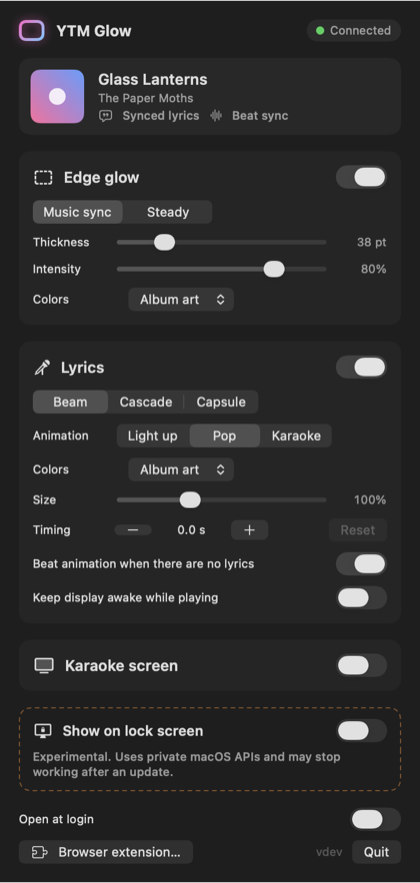
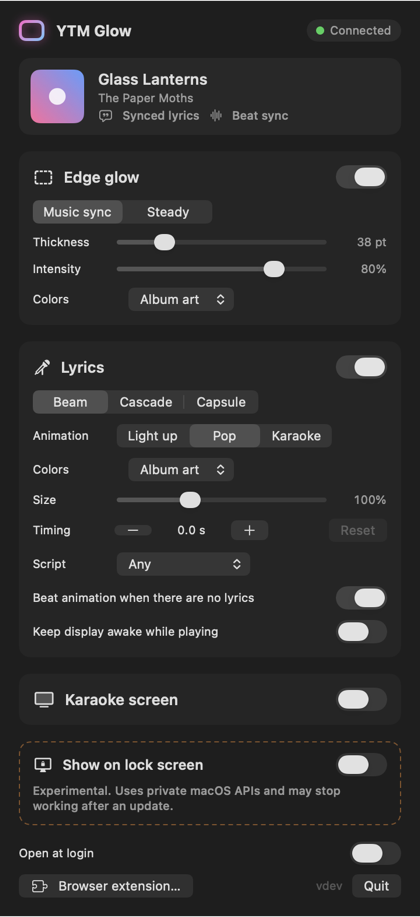
Document Indian-language lyrics support

diff --git a/README.md b/README.md
@@ -19,6 +19,10 @@ into light and lyrics:
   bars in the album colors pulse with the bass, mids and highs where the lyrics
   would be, on the overlay, the karaoke screen (with the album art beating
   along) and the lock-screen card.
+- **Telugu, Hindi, Tamil and other Indian songs** — lyrics in తెలుగు,
+  हिन्दी, தமிழ், ಕನ್ನಡ, മലയാളം and other scripts or romanized, with the right
+  language version picked for film songs released in several languages (see
+  [Indian songs](#indian-songs-telugu-hindi-tamil)).
 - **Karaoke screen** — a full-screen karaoke view on your second display:
   huge lyrics with a word-by-word color sweep, the next two lines underneath,
   a countdown through instrumental breaks, blurred album art that blooms on the
@@ -101,8 +105,9 @@ Click the menu bar icon:
   album-art vs custom colors (two color wells).
 - **Lyrics**: on/off, style (Beam / Cascade / Capsule), animation (Light up /
   Pop / Karaoke), album-art vs custom highlight color, size, a timing offset
-  (+ shows lyrics later), *Beat animation when there are no lyrics* (on by
-  default), and *Keep display awake while playing*.
+  (+ shows lyrics later), *Script* (Any / English letters / తెలుగు / हिन्दी /
+  தமிழ் / …), *Beat animation when there are no lyrics* (on by default), and
+  *Keep display awake while playing*.
 - **Karaoke screen**: on/off and which display (*Automatic* = the first display
   without the menu bar; with only one display it stays off unless you pick
   it). It opens while music plays, stays through pauses up to 30 s, and closes
@@ -163,6 +168,39 @@ music.youtube.com tab                    Chrome extension                     YT
 - **Album colors**: artwork is downloaded only from `https` hosts the player
   uses (`*.googleusercontent.com`, `*.ytimg.com`, `*.ggpht.com`, redirects
   included) and the two colors are extracted locally.
+
+### Indian songs (Telugu, Hindi, Tamil…)
+
+LRCLIB has synced lyrics for most popular Indian film songs. Each song may
+exist in the original script (తెలుగు, हिन्दी, தமிழ்…), romanized in English
+letters, or both. YTM Glow handles the extra wrinkles:
+
+- **Right language version.** Pan-Indian films release the same song in
+  several languages with the same title and singer, and LRCLIB entries are
+  sometimes filed under the wrong album. In testing, every top result for the
+  Telugu "Srivalli" was the Tamil version. The app reads the language from
+  YouTube Music's metadata (e.g. "Pushpa - The Rise (Telugu)"). It checks each
+  candidate's script and never shows another language's version. If needed it
+  searches further ("Srivalli Telugu", "Srivalli Pushpa") to find the right
+  one. If none exists, the beat visualizer shows instead of wrong lyrics.
+- **Lyrics script setting.** Popover → Lyrics → *Script*. Choose తెలుగు (or
+  हिन्दी, தமிழ், ಕನ್ನಡ, മലയാളം…) to prefer lyrics in that script, or *English
+  letters* for romanized lyrics. It falls back to the other writing if that's
+  all there is. Picking your language also helps when YouTube Music's metadata
+  doesn't name the language.
+- **Film-song titles are cleaned up.** `(From "Movie")`, `(Telugu Version)`,
+  "Lyrical", "Full Video Song" and `Song | Movie | Actor` are removed before
+  searching.
+- **Word timing for Indian scripts.** Each akshara (syllable cluster) gets a
+  beat, and a dead consonant (virama / pulli) gets half a beat. Romanized
+  lyrics keep their sung final "e" ("suttukunte").
+
+Verified live against LRCLIB: Srivalli (Telugu), Naatu Naatu, Samajavaragamana
+and Chuttamalle all come back in Telugu script or romanized, never in another
+language's script. To re-run: `YTMGLOW_LIVE_LRCLIB=1 swift test --filter
+LiveIndianLyricsTests`.
+
+<img src="docs/images/telugu-karaoke-screen.png" width="760" alt="Karaoke screen with a Telugu line, the first three words swept in pink">
 
 ### Word timing is estimated
 

diff --git a/docs/MANUAL_QA.md b/docs/MANUAL_QA.md
@@ -58,6 +58,14 @@ log stream --level info --predicate 'subsystem == "io.github.saandeepb.ytmglow"'
 - [ ] Turn off "Beat animation when there are no lyrics": nothing is shown for those songs.
 - [ ] Glow on Steady and karaoke screen off: the extension popup says "Beat sync on" only while a no-lyrics song plays, and goes back to off for songs with lyrics.
 
+## 1d. Telugu and other Indian songs
+
+- [ ] Play a popular Telugu film song (e.g. from RRR, Pushpa, Ala Vaikunthapurramuloo). Synced lyrics appear in Telugu script or romanized, never in Tamil/Hindi/Kannada script.
+- [ ] A song released in several languages (e.g. "Srivalli"): play the Telugu version. The lyrics are Telugu (or romanized), not the Tamil version. Repeat with the Tamil or Hindi version if you have it.
+- [ ] Popover → Lyrics → Script → తెలుగు: the current song re-looks-up and shows Telugu script when LRCLIB has it; English letters → romanized when available.
+- [ ] Telugu script renders cleanly in Beam, Cascade, Capsule, the karaoke screen and the lock-screen card: vowel signs and stacked consonants aren't clipped, wrapped lines don't overlap the next line, and the Karaoke sweep moves through each word.
+- [ ] A song with no lyrics on LRCLIB (many regional or older tracks): the beat visualizer shows instead.
+
 ## 2. Recovery
 
 - [ ] Quit the app while music plays, relaunch it: within ~5 s glow and lyrics return without touching the browser.
